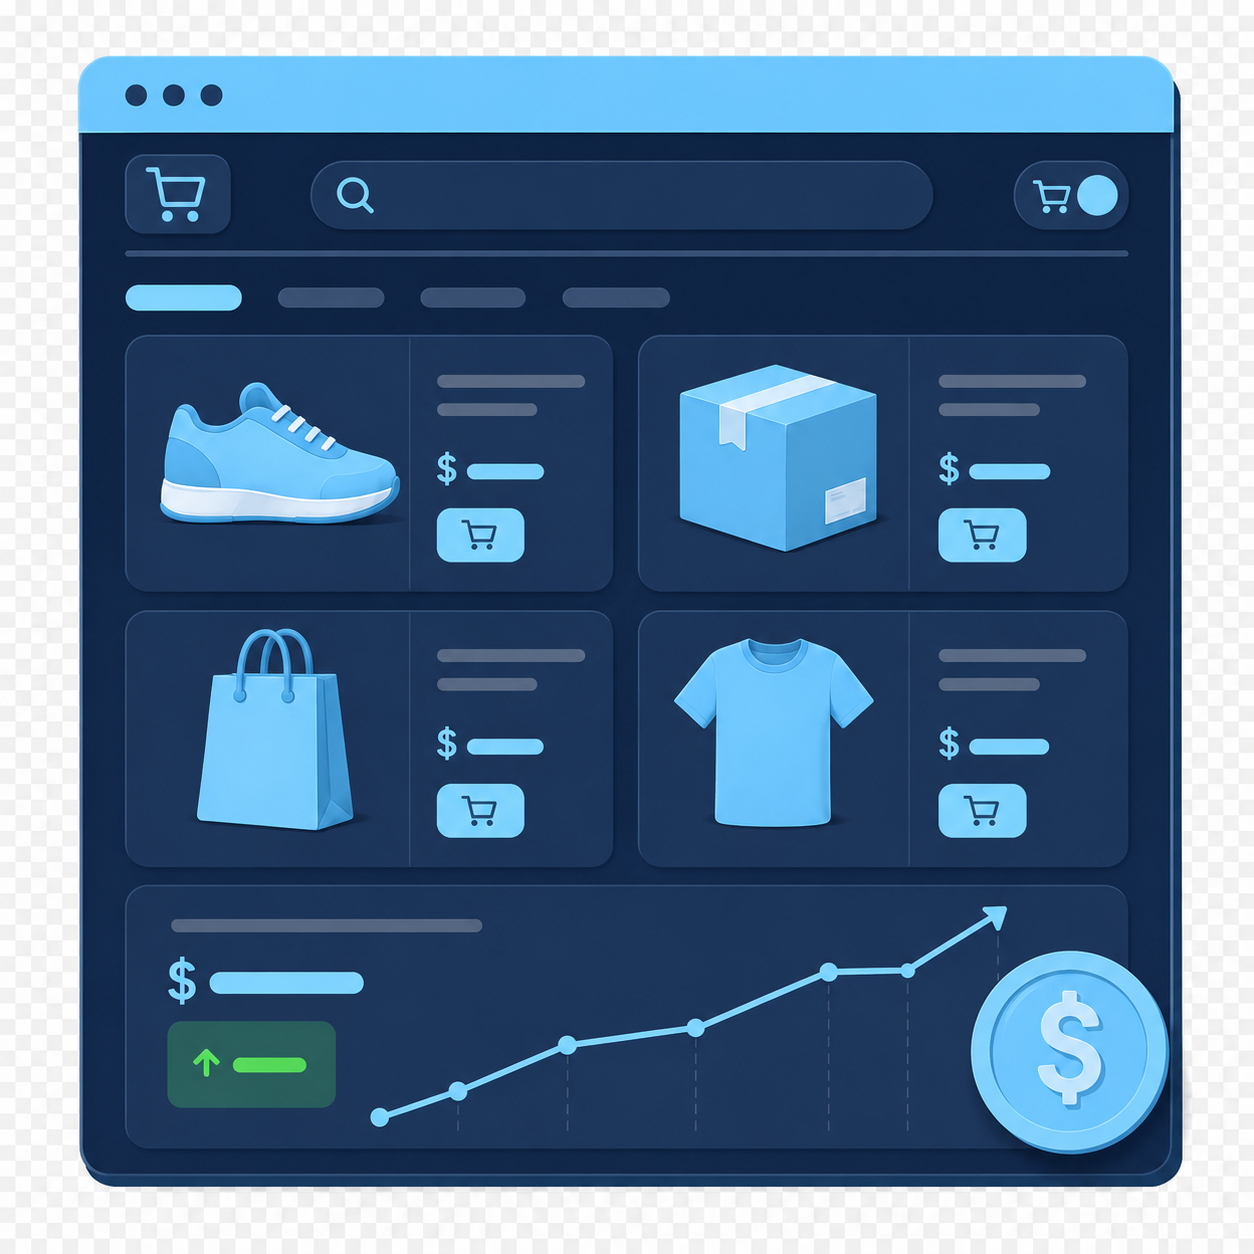
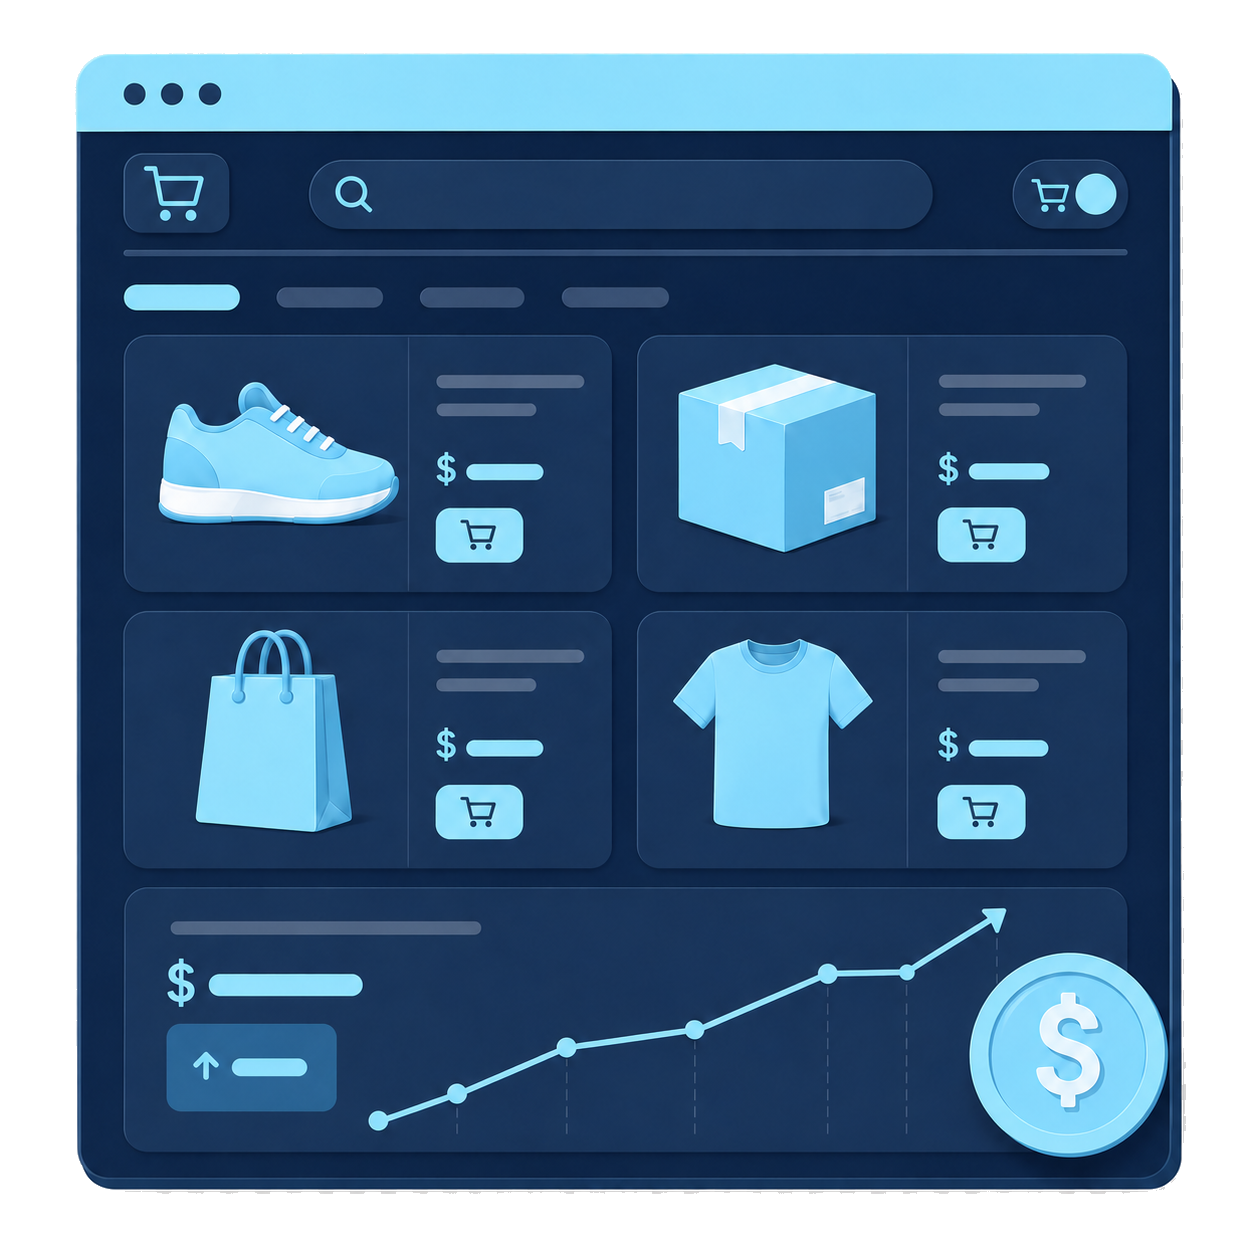
update

diff --git a/src/styles/cards/solution-card.css b/src/styles/cards/solution-card.css
@@ -22,6 +22,10 @@
   --solution-card-bg-current-opacity: var(--solution-card-bg-hover-opacity);
 }
 
+.section-grid-bg--web .solution-card-surface {
+  border-color: rgba(32, 54, 88, 0.15);
+}
+
 .section-grid-bg--web .solution-card-surface:hover,
 .section-grid-bg--web .solution-card-surface.solution-card-surface--touch-selected {
   --tw-translate-y: 0px;
@@ -199,6 +203,60 @@
 
 .section-grid-bg--infrastructure .infrastructure-image-card.solution-card-surface--touch-selected img {
   transform: scale(1.05);
+}
+
+.infrastructure-image-frame {
+  --infrastructure-frame-grid-rgb: 149, 227, 255;
+  --infrastructure-frame-grid-color: rgba(var(--infrastructure-frame-grid-rgb), 0.1);
+  --card-grid-highlight-color: rgba(var(--infrastructure-frame-grid-rgb), 0.92) !important;
+  --section-grid-burst-rgb: var(--infrastructure-frame-grid-rgb) !important;
+  background-color: #122038;
+  background-image: linear-gradient(135deg, #203658 0%, #1a2d4e 54%, #122038 100%);
+}
+
+.infrastructure-image-frame::before {
+  content: "";
+  position: absolute;
+  pointer-events: none;
+  z-index: 0;
+  inset: 0;
+  background-image:
+    linear-gradient(var(--infrastructure-frame-grid-color) 1px, transparent 1px),
+    linear-gradient(90deg, var(--infrastructure-frame-grid-color) 1px, transparent 1px);
+  background-position:
+    calc(-1px - var(--card-grid-origin-x, var(--section-grid-origin-x, 0px)))
+    calc(-1px - var(--card-grid-origin-y, var(--section-grid-origin-y, 0px)));
+  background-repeat: repeat;
+  background-size: var(--section-grid-size, 72px) var(--section-grid-size, 72px);
+  transition: background-position 420ms cubic-bezier(0.22, 1, 0.36, 1);
+}
+
+.infrastructure-image-frame .software-ai-grid-highlight,
+.infrastructure-image-frame .software-ai-grid-burst {
+  inset: 0;
+}
+
+.infrastructure-image-frame > img {
+  position: relative;
+  z-index: 2;
+}
+
+.infrastructure-image-frame.solution-card-surface--burst-active .software-ai-grid-burst {
+  animation: sectionGridBurstField 1260ms cubic-bezier(0.2, 0.72, 0.18, 1) both;
+}
+
+.infrastructure-image-frame.solution-card-surface--burst-active .software-ai-grid-burst::after {
+  animation: sectionGridPressGlow 900ms cubic-bezier(0.2, 0.72, 0.18, 1) both;
+}
+
+@media (prefers-reduced-motion: reduce) {
+  .infrastructure-image-frame::before {
+    transition: none;
+  }
+  .infrastructure-image-frame.solution-card-surface--burst-active .software-ai-grid-burst,
+  .infrastructure-image-frame.solution-card-surface--burst-active .software-ai-grid-burst::after {
+    animation: none;
+  }
 }
 
 @media (hover: hover) and (pointer: fine) {

diff --git a/src/components/sections/WebSolutionsSection.jsx b/src/components/sections/WebSolutionsSection.jsx
@@ -11,8 +11,6 @@ const cx = (...classes) => classes.filter(Boolean).join(' ');
 const WORDPRESS_TITLE = 'Soluzioni WordPress';
 const WEB_CARD_SURFACE_OPACITY = 0.1;
 const WEB_CARD_SURFACE_HOVER_OPACITY = 0.7;
-const TITLE_HOVER_EFFECT = 'web-solution-hover-text web-solution-hover-title';
-const DESCRIPTION_HOVER_EFFECT = 'web-solution-hover-text web-solution-hover-description';
 const SOLUTION_CARD_DESKTOP_QUERY = '(min-width: 1024px)';
 const SOLUTION_CARD_CLASSES = {
   shell: [
@@ -26,22 +24,10 @@ const SOLUTION_CARD_CLASSES = {
   ].join(' '),
   imageShell: 'relative w-full overflow-hidden bg-transparent',
   badgeTopLeft: 'top-4 left-5 sm:top-5 sm:left-7 md:left-8 lg:top-6 lg:left-7',
-  stackedTitle: cx(
-    'font-headline text-[1.12rem] font-extrabold leading-[1.08] text-[#071d3d] sm:text-[1.24rem] md:text-[1.44rem]',
-    TITLE_HOVER_EFFECT
-  ),
-  stackedDescription: cx(
-    'font-body text-[0.79rem] font-medium leading-[1.62] text-[#2b3b59] sm:text-[0.86rem] md:text-[0.91rem]',
-    DESCRIPTION_HOVER_EFFECT
-  ),
-  desktopTitle: cx(
-    'font-headline text-[1.54rem] font-extrabold leading-[1.08] text-[#071d3d] xl:text-[1.68rem]',
-    TITLE_HOVER_EFFECT
-  ),
-  desktopDescription: cx(
-    'max-w-[34ch] font-body text-[0.93rem] font-medium leading-[1.72] text-[#2b3b59] xl:text-[0.98rem]',
-    DESCRIPTION_HOVER_EFFECT
-  )
+  stackedTitle: 'font-headline text-[1.12rem] font-extrabold leading-[1.08] text-[#071d3d] sm:text-[1.24rem] md:text-[1.44rem]',
+  stackedDescription: 'font-body text-[0.79rem] font-medium leading-[1.62] text-[#2b3b59] sm:text-[0.86rem] md:text-[0.91rem]',
+  desktopTitle: 'font-headline text-[1.54rem] font-extrabold leading-[1.08] text-[#071d3d] xl:text-[1.68rem]',
+  desktopDescription: 'max-w-[34ch] font-body text-[0.93rem] font-medium leading-[1.72] text-[#2b3b59] xl:text-[0.98rem]'
 };
 const HORIZONTAL_CARD_CLASSES = {
   shell: 'lg:col-span-2 lg:block lg:h-[284px]',

diff --git a/src/components/sections/InfrastructureSection.jsx b/src/components/sections/InfrastructureSection.jsx
@@ -1,23 +1,26 @@
 import SectionHeader from '../SectionHeader';
+import deskImage from '../../../media/images/desk.png';
+import serverImage from '../../../media/images/server.png';
+import securityImage from '../../../media/images/security.png';
 
 const INFRASTRUCTURE_CARDS = [
   {
     alt: 'Workstation',
-    src: 'https://lh3.googleusercontent.com/aida-public/AB6AXuDe3dI_UeRG8MAEBEMgFDXXRwju0bBup-H1ZtHM4SnZGzIDpxFyqLKlB1B_6Uj9W9wRzp0iQ2UfwJG9I0FhLfNshOCBjeEL_C4WuPXHtEWIBObI6uPtpo9e6u7lqJgSrf-zhlSuZYw0DPwlJ2CvWK9efeMij6vbQfOr2nsid-Lj1aH_IEp6bwsPq6DFwcwJid74D9kVwLer8ky3nLFCgSKoOsp1X0oe5I1Sn6OZoPJWukj2mxumBA6Yyrl3_bQnKwGSZRRQPQHlX6A',
+    src: deskImage,
     title: 'PC e Workstation',
     description:
       'Assemblaggio e configurazione di macchine e postazioni, per qualsiasi esigenza operativa.'
   },
   {
     alt: 'Server',
-    src: 'https://lh3.googleusercontent.com/aida-public/AB6AXuBAufb96DUrT7y8S3R4x0oD177OPYxmWLBt1RE9zumFaLHQrhpv6oQd9iiJZVJka5l_wLFXx80Tnypz1CvDAby7TiyG20tQxfhzjGwy4GLLK0SM1h4pruq1rpJ7kVoND_-AiDntI_wrm2WyCOZ1zlVih7TfouJeLzGk6NDFw_2pDQ28lcH87Fg_turFGtxZPCWUFFygoH8TGRhUB-rzQ_YNYYc9fIKhEPvZmvsfDrVRLzLV_VENcztooh6-aBxXUEIGxHMlhnydcUo',
+    src: serverImage,
     title: 'Server Privati',
     description:
       'Per la gestione dei tuoi dati e la sicurezza e l\'autonomia della tua attività.'
   },
   {
     alt: 'Security',
-    src: 'https://lh3.googleusercontent.com/aida-public/AB6AXuAnRD50G054QtGxKd__hr0vt2sJrcmzp4X0D51SnAp4owA4wSv_PlMBdfw3QWUJBShWE45ZTVFfqoB3Tza_VOEXyX5623XsXGeKLgZofBiNXdyIlMX7q3r7LX6cxxPy7iCcSHzz6eZccf-DQkZSHM-CrmW2XtX5uKPNpztVLS03zVu62wXNh0ZHlXw9-UyABJpiv0gvhmzJ_vimOerPsdHBoSKAKqMi1Sulxn2uNEqn-8fmeLusZtwytMOvUSouEIbd48c3_N8D_Io',
+    src: securityImage,
     title: 'Sicurezza Informatica',
     description:
       'Sistemi di backup e protezione, fisici e virtuali, per la salvaguardia del tuo business.'
@@ -28,8 +31,8 @@ const SECTION_CLASS = 'section-grid-bg section-grid-bg--infrastructure py-[5.5re
 const SECTION_CONTENT_CLASS = 'max-w-7xl mx-auto px-5 sm:px-6 md:px-8';
 const CARD_GRID_CLASS = 'grid grid-cols-1 md:grid-cols-3 gap-8';
 const CARD_CLASS = 'infrastructure-image-card group';
-const IMAGE_FRAME_CLASS = 'h-48 rounded-xl bg-surface-container-high mb-6 overflow-hidden';
-const IMAGE_CLASS = 'w-full h-full object-cover group-hover:scale-105 transition-transform duration-500';
+const IMAGE_FRAME_CLASS = 'infrastructure-image-frame solution-card-surface card-grid-anchor isolate h-48 rounded-xl mb-6 overflow-hidden relative';
+const IMAGE_CLASS = 'w-full h-full object-contain group-hover:scale-105 transition-transform duration-500';
 const CARD_TITLE_CLASS = 'font-headline text-xl font-bold text-on-background mb-2';
 const CARD_DESCRIPTION_CLASS = 'font-body text-sm text-on-surface-variant leading-relaxed';
 
@@ -37,6 +40,8 @@ function InfrastructureCard({ alt, description, src, title }) {
   return (
     <div className={CARD_CLASS}>
       <div className={IMAGE_FRAME_CLASS}>
+        <span aria-hidden="true" className="software-ai-grid-highlight" />
+        <span aria-hidden="true" className="software-ai-grid-burst" />
         <img
           alt={alt}
           className={IMAGE_CLASS}

diff --git a/src/hooks/sectionGrid/constants.js b/src/hooks/sectionGrid/constants.js
@@ -43,7 +43,7 @@ export const SECTION_CURSOR_THEMES = [
   },
   {
     id: 'siti-web',
-    color: '#254a70'
+    color: '#203658'
   },
   {
     id: 'software-automazione',

diff --git a/src/styles.css b/src/styles.css
@@ -2,7 +2,6 @@
 @import './styles/base.css';
 @import './styles/sections/section-grid.css';
 @import './styles/cards/solution-card.css';
-@import './styles/cards/web-solution.css';
 @import './styles/components/cta.css';
 @import './styles/components/legal-document.css';
 @import './styles/hero.css';